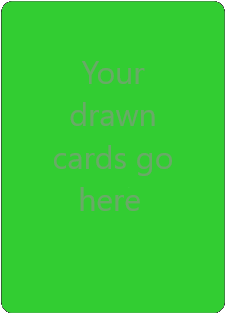
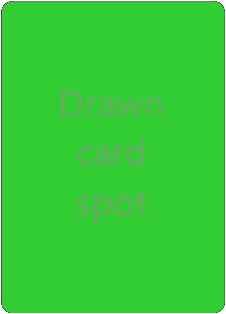
more drawn card spaces

Changed region(s): [[0.2478, 0.2006, 0.7124, 0.4013], [0.2168, 0.4299, 0.7743, 0.5732], [0.3407, 0.6019, 0.6504, 0.7166]]

diff --git a/ui.ts b/ui.ts
@@ -1,5 +1,5 @@
 import { Game, Card } from "./models.js";
-import { getCardFromCardSpaceID, getCardSpaceId, getIndFromCardSpaceId } from "./utilties.js";
+import { getCardFromCardSpaceID, getCardSpaceId, getIndFromCardSpaceId, getDrawnCardSpaceId } from "./utilties.js";
 
 const $startScreen = $("#start-screen");
 const $cardsArea = $("#cards-area");
@@ -8,7 +8,6 @@ const $nameField = $("#name-field") as JQuery<HTMLInputElement>;
 const $nameSpace = $("#p1-name");
 const $discards = $("#discards");
 const $messages = $("#messages");
-const $drawnCardSpace = $("#drawn-card");
 const $deck = $("#deck");
 
 
@@ -41,7 +40,7 @@ function showCardsArea(): string {
 
 function updatePicsOnTakeDrawnCard(game: Game, cardSpaceID: string): void {
   showTopDiscard(game.topDiscard as Card);
-  clearDrawnCardSpace();
+  clearDrawnCardSpace(game);
   const card = getCardFromCardSpaceID(cardSpaceID, game);
   showCardInHand(card, cardSpaceID);
 }
@@ -93,19 +92,23 @@ function clearTopDiscardSpace(game: Game): void {
   }
 }
 
-/** Show image of main player's drawn card in their drawn card spot
+/** Show image of current player's drawn card in their drawn card spot
  *
  * Takes: game, a Game instance
  */
 function showDrawnCard(game: Game): void {
-  const card = game.players[0].drawnCard as Card;
+  const card = game.currPlayer.drawnCard as Card;
+  const drawnCardSpaceId = getDrawnCardSpaceId(game);
+  const $drawnCardSpace = $(`#${drawnCardSpaceId}`);
   $drawnCardSpace.attr("src", card.image);
   $drawnCardSpace.attr("alt", `front of card, a ${card.value}`);
 }
 
 /** Show empty placeholder image in main player's drawn card spot */
 
-function clearDrawnCardSpace(): void {
+function clearDrawnCardSpace(game: Game): void {
+  const drawnCardSpaceId = getDrawnCardSpaceId(game);
+  const $drawnCardSpace = $(`#${drawnCardSpaceId}`);
   $drawnCardSpace.attr("src", "./images/drawn_placeholder.png");
   $drawnCardSpace.attr("alt", "your drawn cards go here");
 }

diff --git a/index.html b/index.html
@@ -25,7 +25,9 @@
   <div class="container border border-dark rounded hidden" id="cards-area">
     <h3 class="name" id="p3-name">Bobby</h3>
     <div class="row" id="top">
-      <div class="col-4"></div>
+      <div class="col-4" id="drawn-card-area-3">
+        <img class="pic" id="drawn-card-3" src="./images/drawn_placeholder.png" alt="Drawn card spot">
+      </div>
       <div class="container player col-4" id="p3">
         <div class="row">
           <img class="col-4" id="p3-0" src="./images/back.png" alt="back of card">
@@ -38,7 +40,9 @@
           <img class="col-4" id="p3-5" src="./images/back.png" alt="back of card">
         </div>
       </div>
-      <div class="col-4"></div>
+      <div class="col-4" id="drawn-card-area-4">
+        <img class="pic" id="drawn-card-4" src="./images/drawn_placeholder.png" alt="drawn card spot">
+      </div>
     </div>
 
     <div class="row" id="middle">
@@ -75,7 +79,9 @@
     </div>
 
     <div class="row" id="bottom">
-      <div class="col-4"></div>
+      <div class="col-4" id="drawn-card-area-2">
+        <img class="pic" id="drawn-card-2" src="./images/drawn_placeholder.png" alt="Drawn card spot">
+      </div>
       <div class="container player col-4" id="p1">
         <div class="row">
           <img class="col-4 clickable flippable" id="p1-0" src="./images/back.png" alt="back of card">
@@ -88,8 +94,8 @@
           <img class="col-4 clickable flippable" id="p1-5" src="./images/back.png" alt="back of card">
         </div>
       </div>
-      <div class="col-4" id="drawn-card-area">
-        <img class="pic" id="drawn-card" src="./images/drawn_placeholder.png" alt="your drawn cards go here">
+      <div class="col-4" id="drawn-card-area-1">
+        <img class="pic" id="drawn-card-1" src="./images/drawn_placeholder.png" alt="drawn card spot">
       </div>
     </div>
     <h3 class="name" id="p1-name">You</h3>

diff --git a/main.ts b/main.ts
@@ -185,7 +185,7 @@ function takeOrDiscard(game: Game): Promise<void> {
       if ($clicked.attr("id") === "discards") {
         await game.currPlayer.discardDrawnCard(game);
         showTopDiscard(game.topDiscard as Card);
-        clearDrawnCardSpace();
+        clearDrawnCardSpace(game);
         resolve();
       } else {
         const cardSpaceId = $clicked.attr("id") as string;
@@ -334,6 +334,7 @@ function drawFromDiscards(game: Game): void {
   console.log("In main: drawFromDiscards");
   game.currPlayer.drawFromDiscards(game);
   clearTopDiscardSpace(game);
+  showDrawnCard(game);
 }
 
 /** Have current player draw Card from deck, and have images updated accordingly
@@ -347,6 +348,7 @@ async function drawFromDeck(game: Game): Promise<void> {
     updatePicsOnReshuffle();
   }
   await game.currPlayer.drawFromDeck(game);
+  showDrawnCard(game);
   clearDeckIfEmpty(game);
 }
 

diff --git a/utilties.ts b/utilties.ts
@@ -69,7 +69,12 @@ function getCardSpaceId(cardInd: number, player: Player, game: Game): string {
   return `p${playerInd + 1}-${cardInd}`;
 }
 
-
+// Returns JQuery object of current player's drawn card space
+function getDrawnCardSpaceId(game: Game): string {
+  const player = game.currPlayer;
+  const playerInd = game.players.indexOf(player);
+  return `drawn-card-${playerInd + 1}`;
+}
 
 /*******************************************************************************
  * Helpers functions used for computer player moves
@@ -155,5 +160,6 @@ function chanceTrue(chance: number): boolean {
 
 export {
   randSelectPlayer, getNextPlayer, randSelectCardInd, getCardFromCardSpaceID,
-  getIndFromCardSpaceId, getCardSpaceId, unflippedCol, chanceTrue, matchWithDiscard
+  getIndFromCardSpaceId, getCardSpaceId, unflippedCol, chanceTrue, matchWithDiscard,
+  getDrawnCardSpaceId,
 };

diff --git a/style.css b/style.css
@@ -13,10 +13,6 @@ body {
   transform: rotate(90deg);
 }
 
-#p3 {
-  transform: rotate(180deg);
-}
-
 #p4 {
   transform: rotate(270deg);
 }
@@ -27,11 +23,35 @@ body {
   left: 3%;
 }
 
-#drawn-card-area {
+#drawn-card-area-1 {
   position: relative;
   margin: auto;
-  left: 3%;
+  left: 2%;
   top: 20px;
+}
+
+#drawn-card-area-2 {
+  position: relative;
+  margin: auto;
+  left: 1%;
+  top: 80px;
+  transform: rotate(90deg);
+}
+
+#drawn-card-area-3 {
+  position: relative;
+  margin: auto;
+  left: -2%;
+  top: -20px;
+  transform: rotate(180deg);
+}
+
+#drawn-card-area-4 {
+  position: relative;
+  margin: auto;
+  left: -2%;
+  top: -80px;
+  transform: rotate(270deg);
 }
 
 #start-screen {

diff --git a/models.ts b/models.ts
@@ -75,8 +75,8 @@ class Game {
     this.players = players;
     // this.currDealer = randSelectPlayer(players);
     // this.currPlayer = getNextPlayer(players, this.currDealer);
-    this.currDealer = players[3];
-    this.currPlayer = players[0];
+    this.currDealer = players[0];
+    this.currPlayer = players[1];
     this.topDiscard = null;
     this.deckIsEmpty = false;
     this.discardPileHasCards = false;
